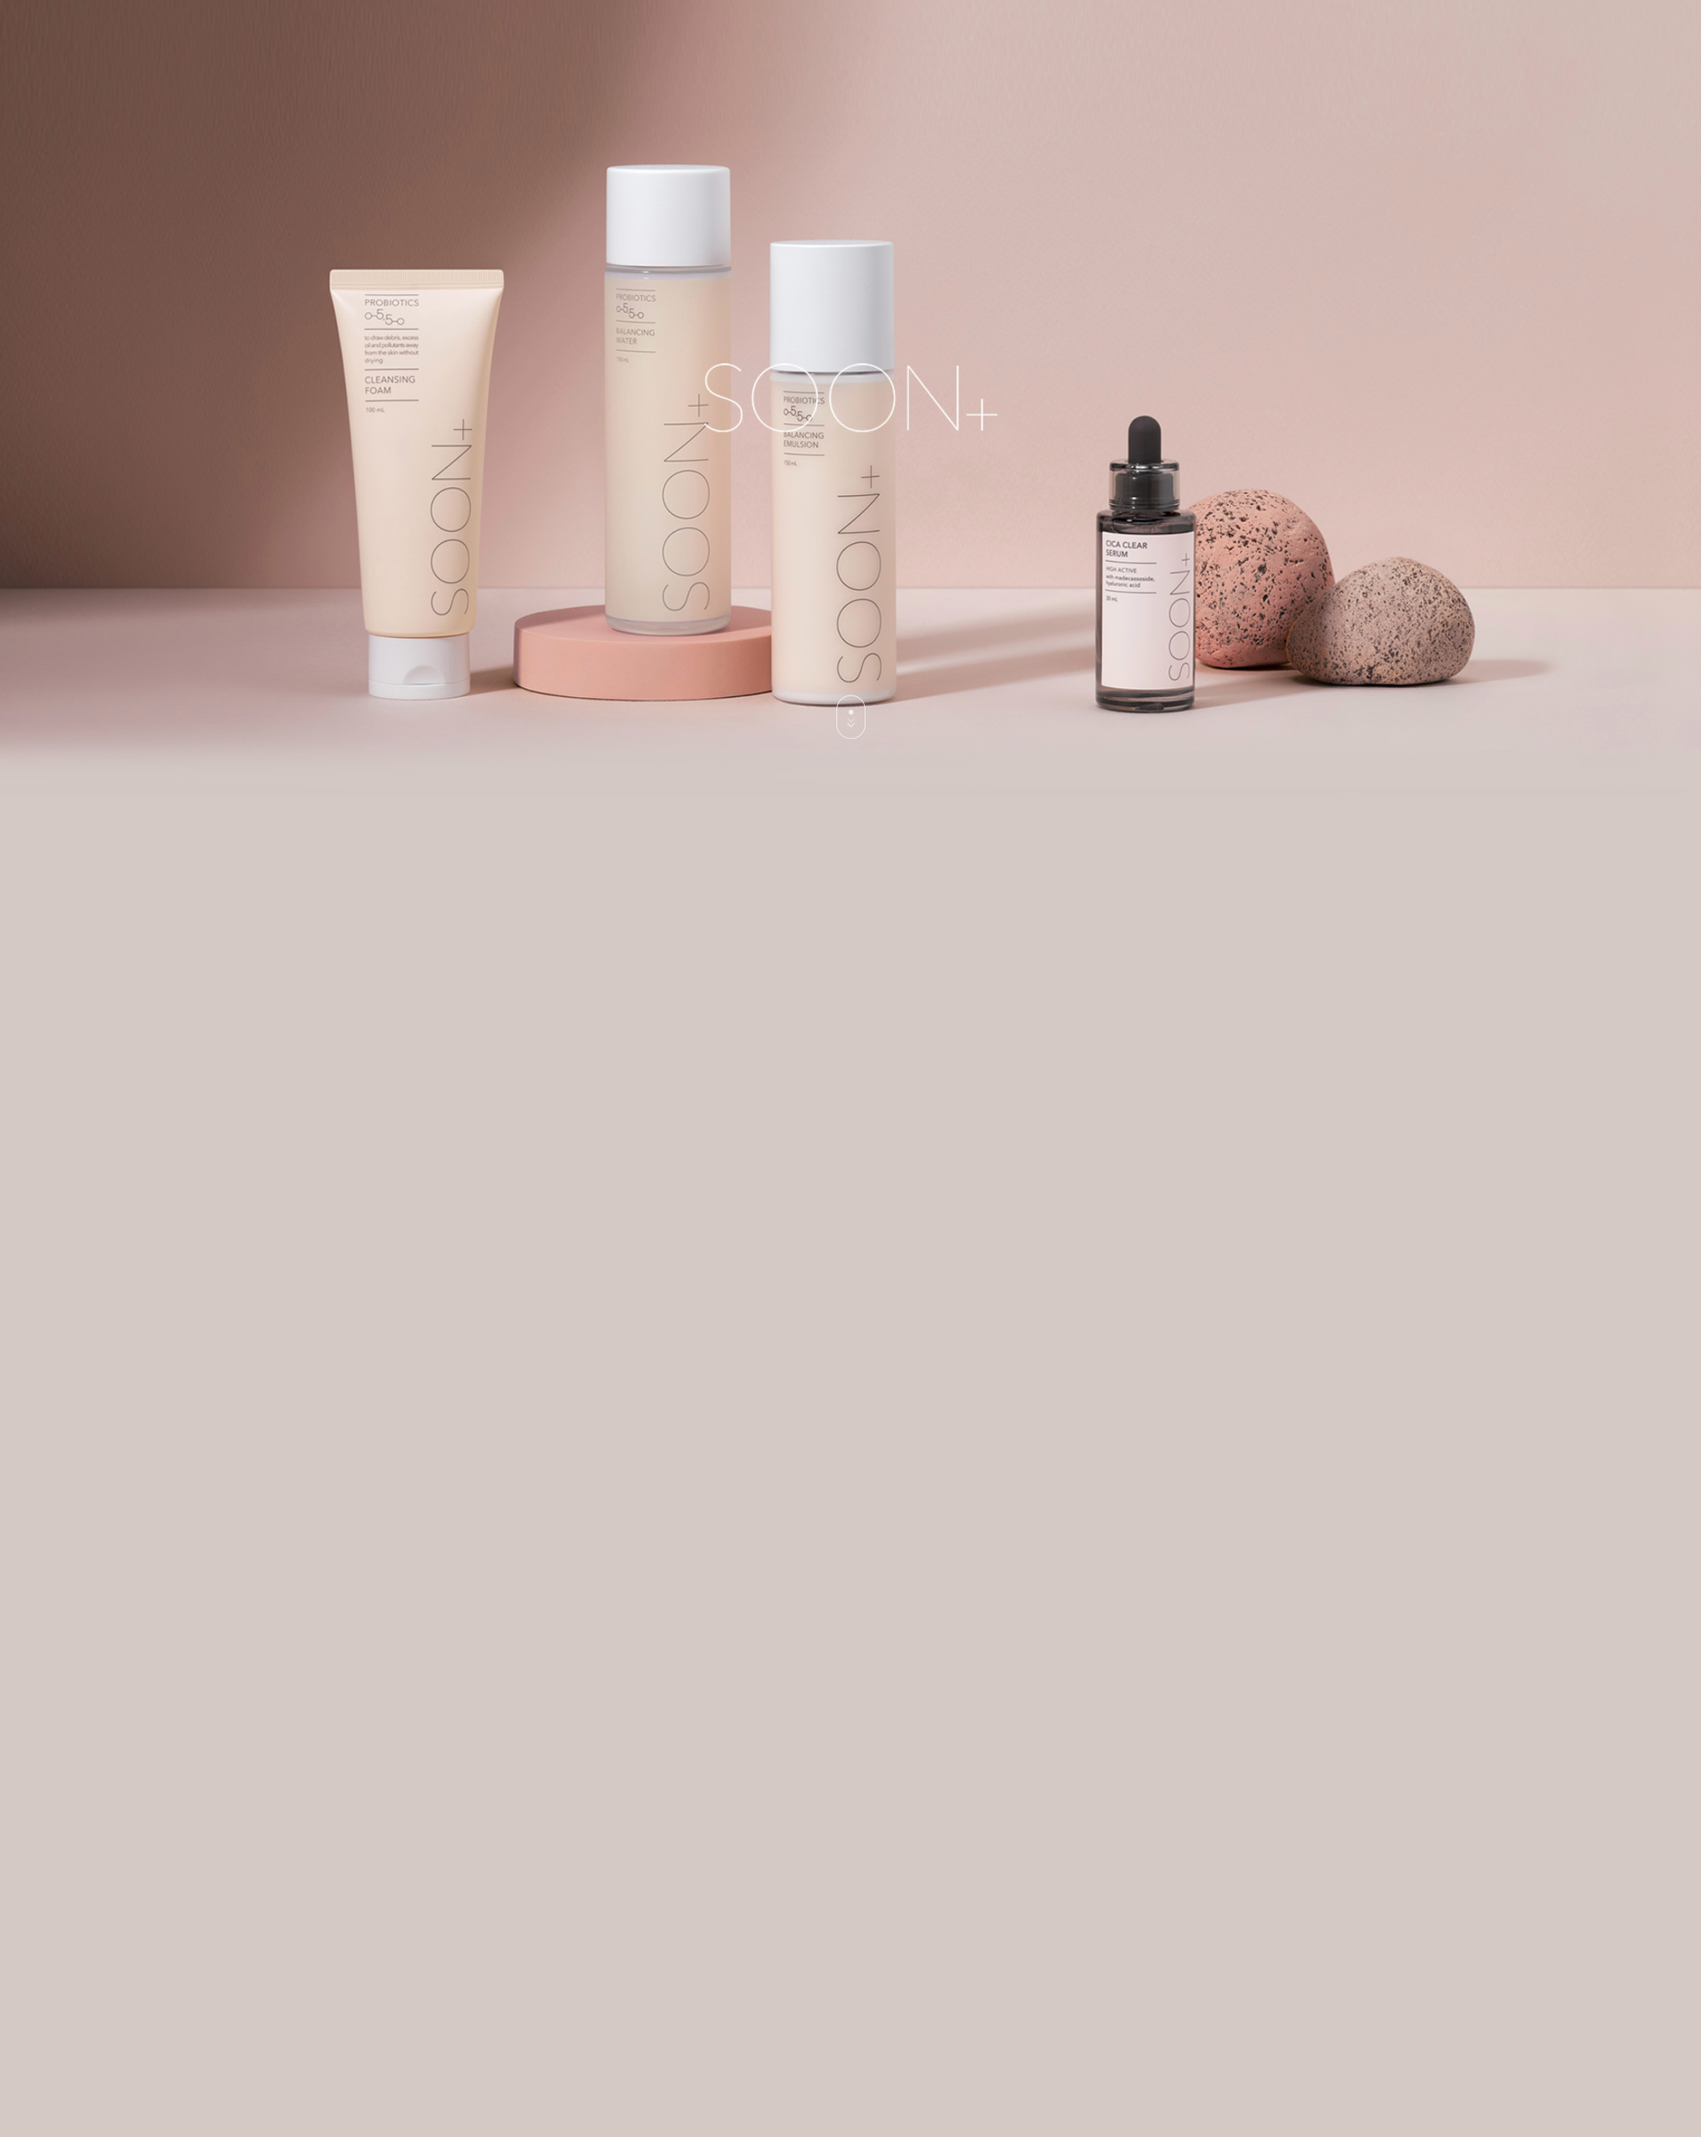
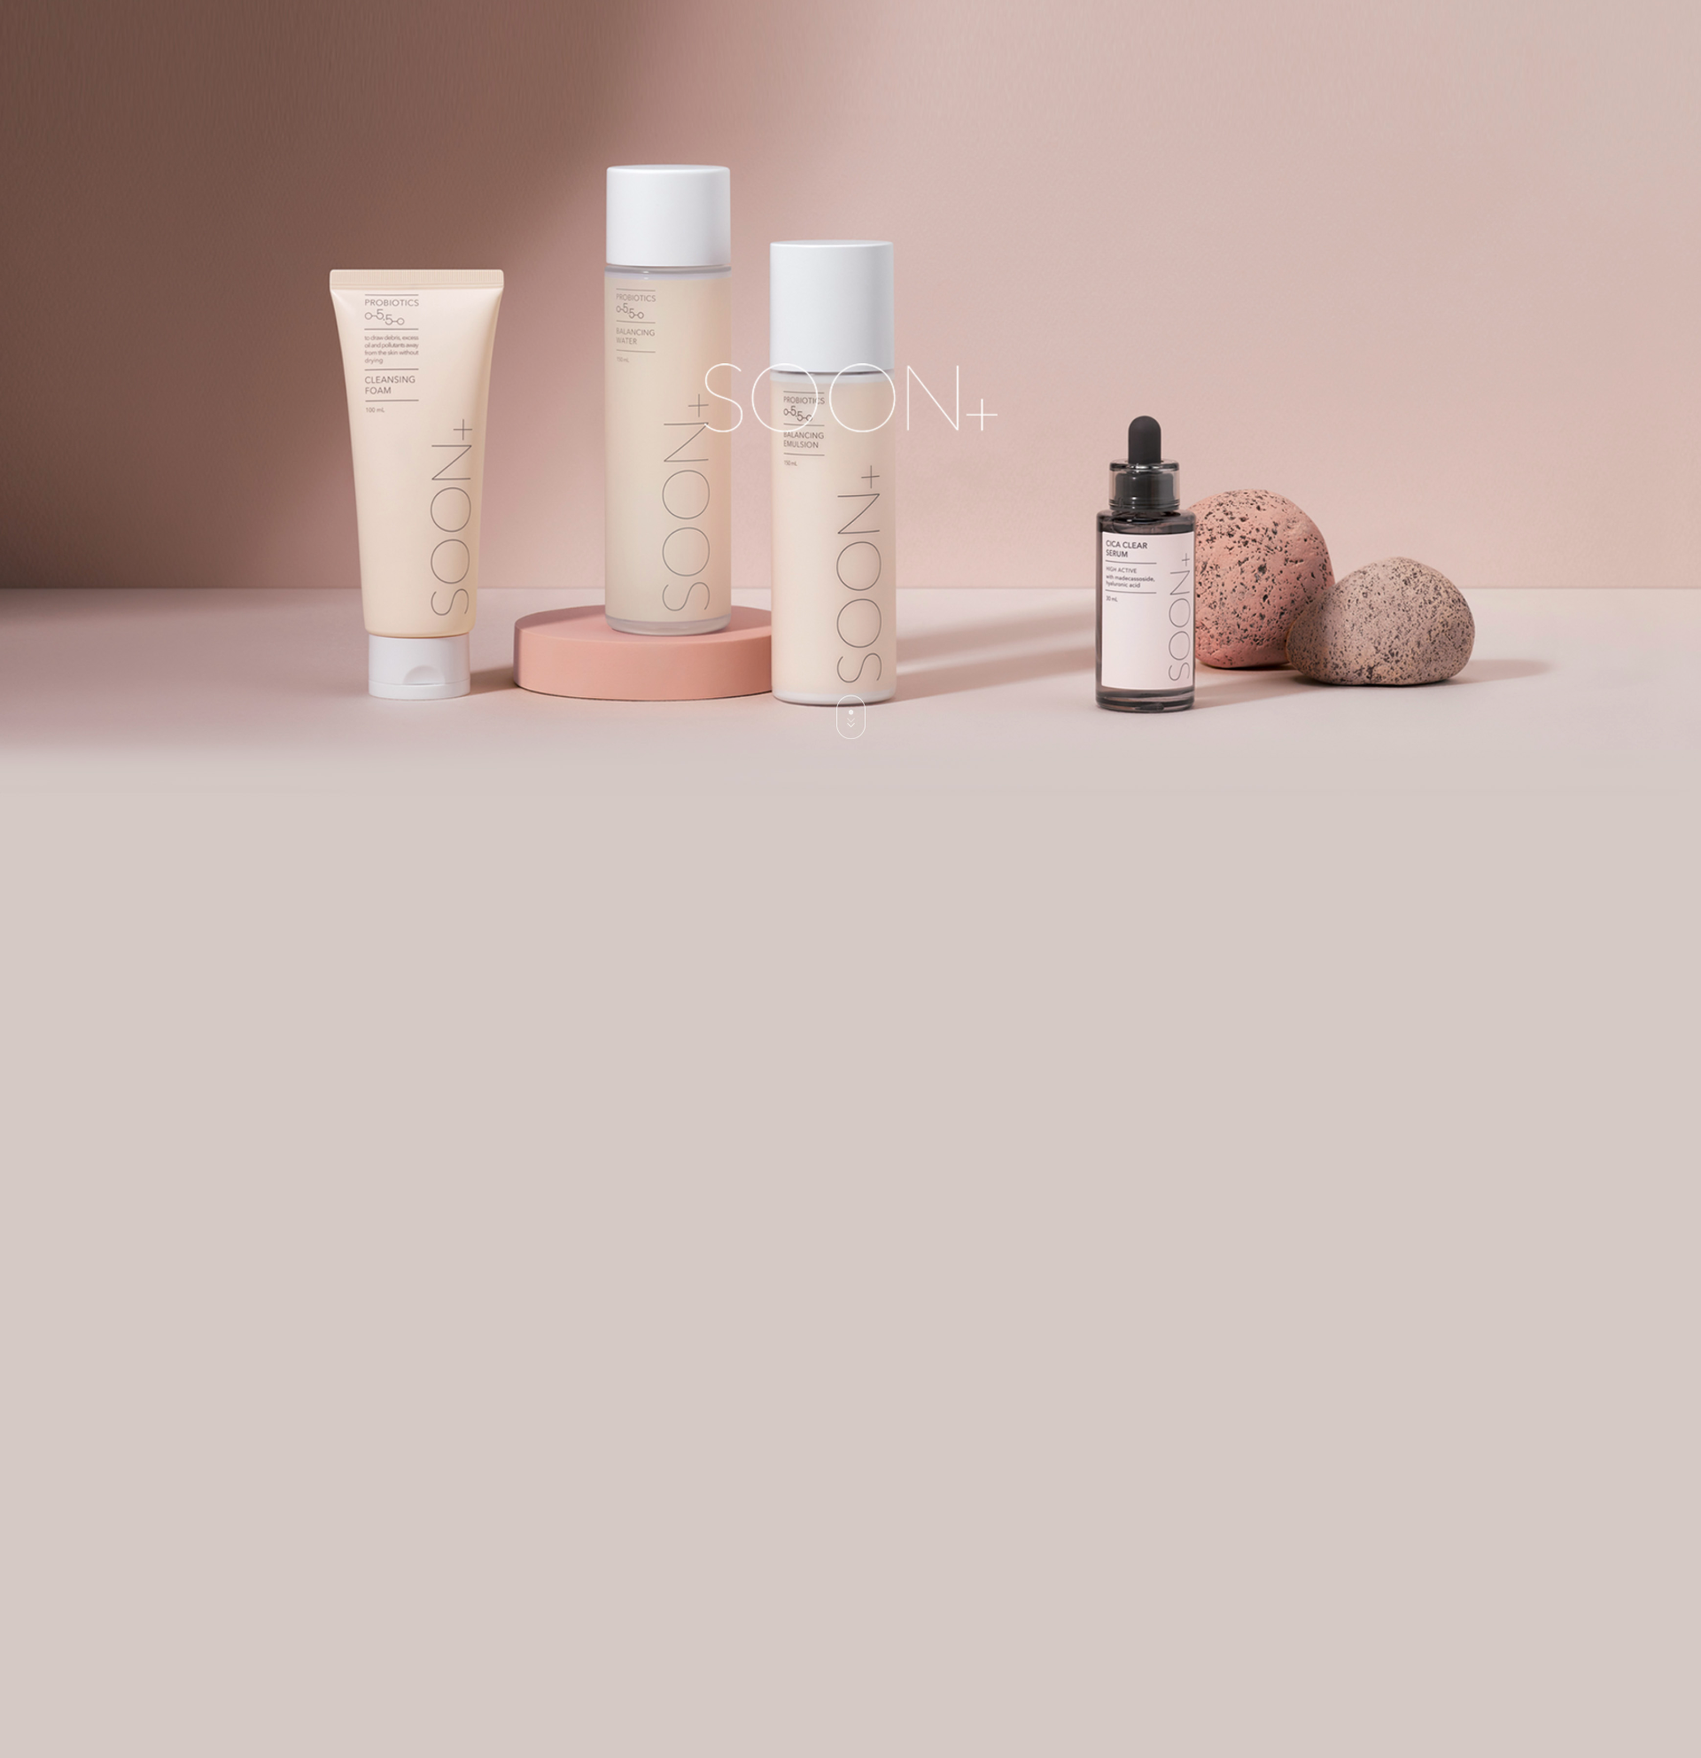
HotFix

Changed region(s): [[0.0, 0.125, 0.9062, 0.4375], [0.3438, 0.0938, 0.5312, 0.25], [0.3438, 0.0625, 0.4375, 0.0938]]

diff --git a/static/css/style.css b/static/css/style.css
@@ -1,9 +1,19 @@
+html, body {
+	margin: 0 auto;
+	max-width: 1640px;
+}
+
 #body {
   width: 100%;
   height: auto;
   overflow-y: auto;
   overflow-x: hidden;
   font-family: 'Urbanist', sans-serif;
+margin: 0 auto;
+}
+
+* {
+	max-width: 1640px;
 }
 
 /* TOPOF COMMON */
@@ -645,13 +655,28 @@
 .soon_container .soon_text_wrapper {
 	position: absolute;
 	z-index: 1;
-	top: 50%;
-	width: 90%;
-	margin-left: 5%;
-	margin-right: 5%;
+	top: 650px;
+	width: 80%;
+	margin-left: 10%;
+	margin-right: 10%;
 	line-height: 1.8em;
 	text-align: center;
 	word-break: keep-all;
+}
+
+@media screen and (min-width: 992px) {
+	.enuf_container .enuf_text_wrapper,
+.soon_container .soon_text_wrapper {
+	position: absolute;
+	z-index: 1;
+	top: 800px;
+	width: 80%;
+	margin-left: 10%;
+	margin-right: 10%;
+	line-height: 1.8em;
+	text-align: center;
+	word-break: keep-all;
+}
 }
 
 .enuf_container .enuf_text_wrapper h1 {
@@ -670,7 +695,7 @@
 	width: 100%;
 	height: auto;
 	padding-top: 50px;
-	min-height: calc(100vh - 200px);
+	min-height: calc(100vh - 400px);
 	background-color: #fff;
 }
 
